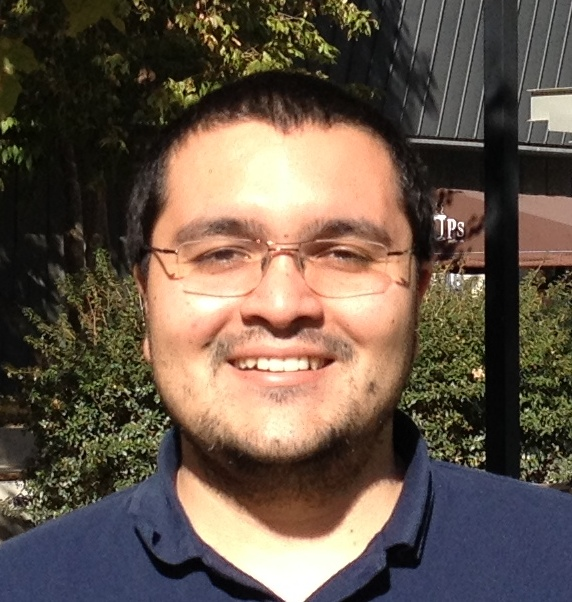
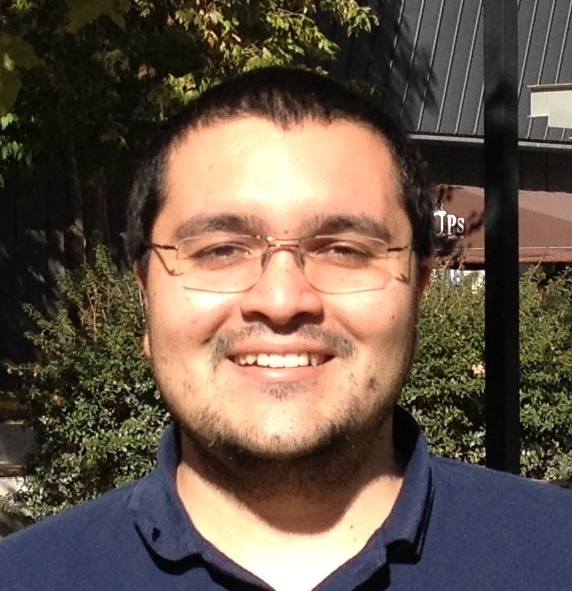
updating people and photos

diff --git a/index.html b/index.html
@@ -123,21 +123,30 @@ role_remain:
 <!--Remaining roles (collaborators, undergrads, alumni) -->
 <div class="row">
 {% for grp in page.role_remain %}
-    <div class="col-md-6">
+    <div class="col-md-{% if grp contains "alum" %}7{% else %}5{% endif %}">
         {% for role in site.roles %}
         {% if grp contains role.key %}
-            <h3>{{ role.name }}</h3>
-            <ul class="people {{role.key}}">
+            {% assign has_members = false %}
             {% for item in site.data.people %}
                 {% assign person = item[1] %}
                 {% if person.role == role.key %}
-                <li>
-                    {% if person.webpage %}<a href="{{ person.webpage |escape }}">{% endif %}{{person.display_name}}{% if person.webpage %}</a>{% endif %}
-                    {% if person.bio %} <span class="bio bio-inline">{{person.bio}}</span>{% endif %}
-                </li>
+                    {% assign has_members = true %}
                 {% endif %}
             {% endfor %}
-            </dl>
+            {% if has_members %}
+                <h3>{{ role.name }}</h3>
+                <ul class="people {{role.key}}">
+                {% for item in site.data.people %}
+                    {% assign person = item[1] %}
+                    {% if person.role == role.key %}
+                    <li>
+                        {% if person.webpage %}<a href="{{ person.webpage |escape }}">{% endif %}{{person.display_name}}{% if person.webpage %}</a>{% endif %}
+                        {% if person.bio %} <span class="bio bio-inline">{{person.bio}}</span>{% endif %}
+                    </li>
+                    {% endif %}
+                {% endfor %}
+                </ul>
+            {% endif %}
         {% endif %}
         {% endfor %}
     </div>
